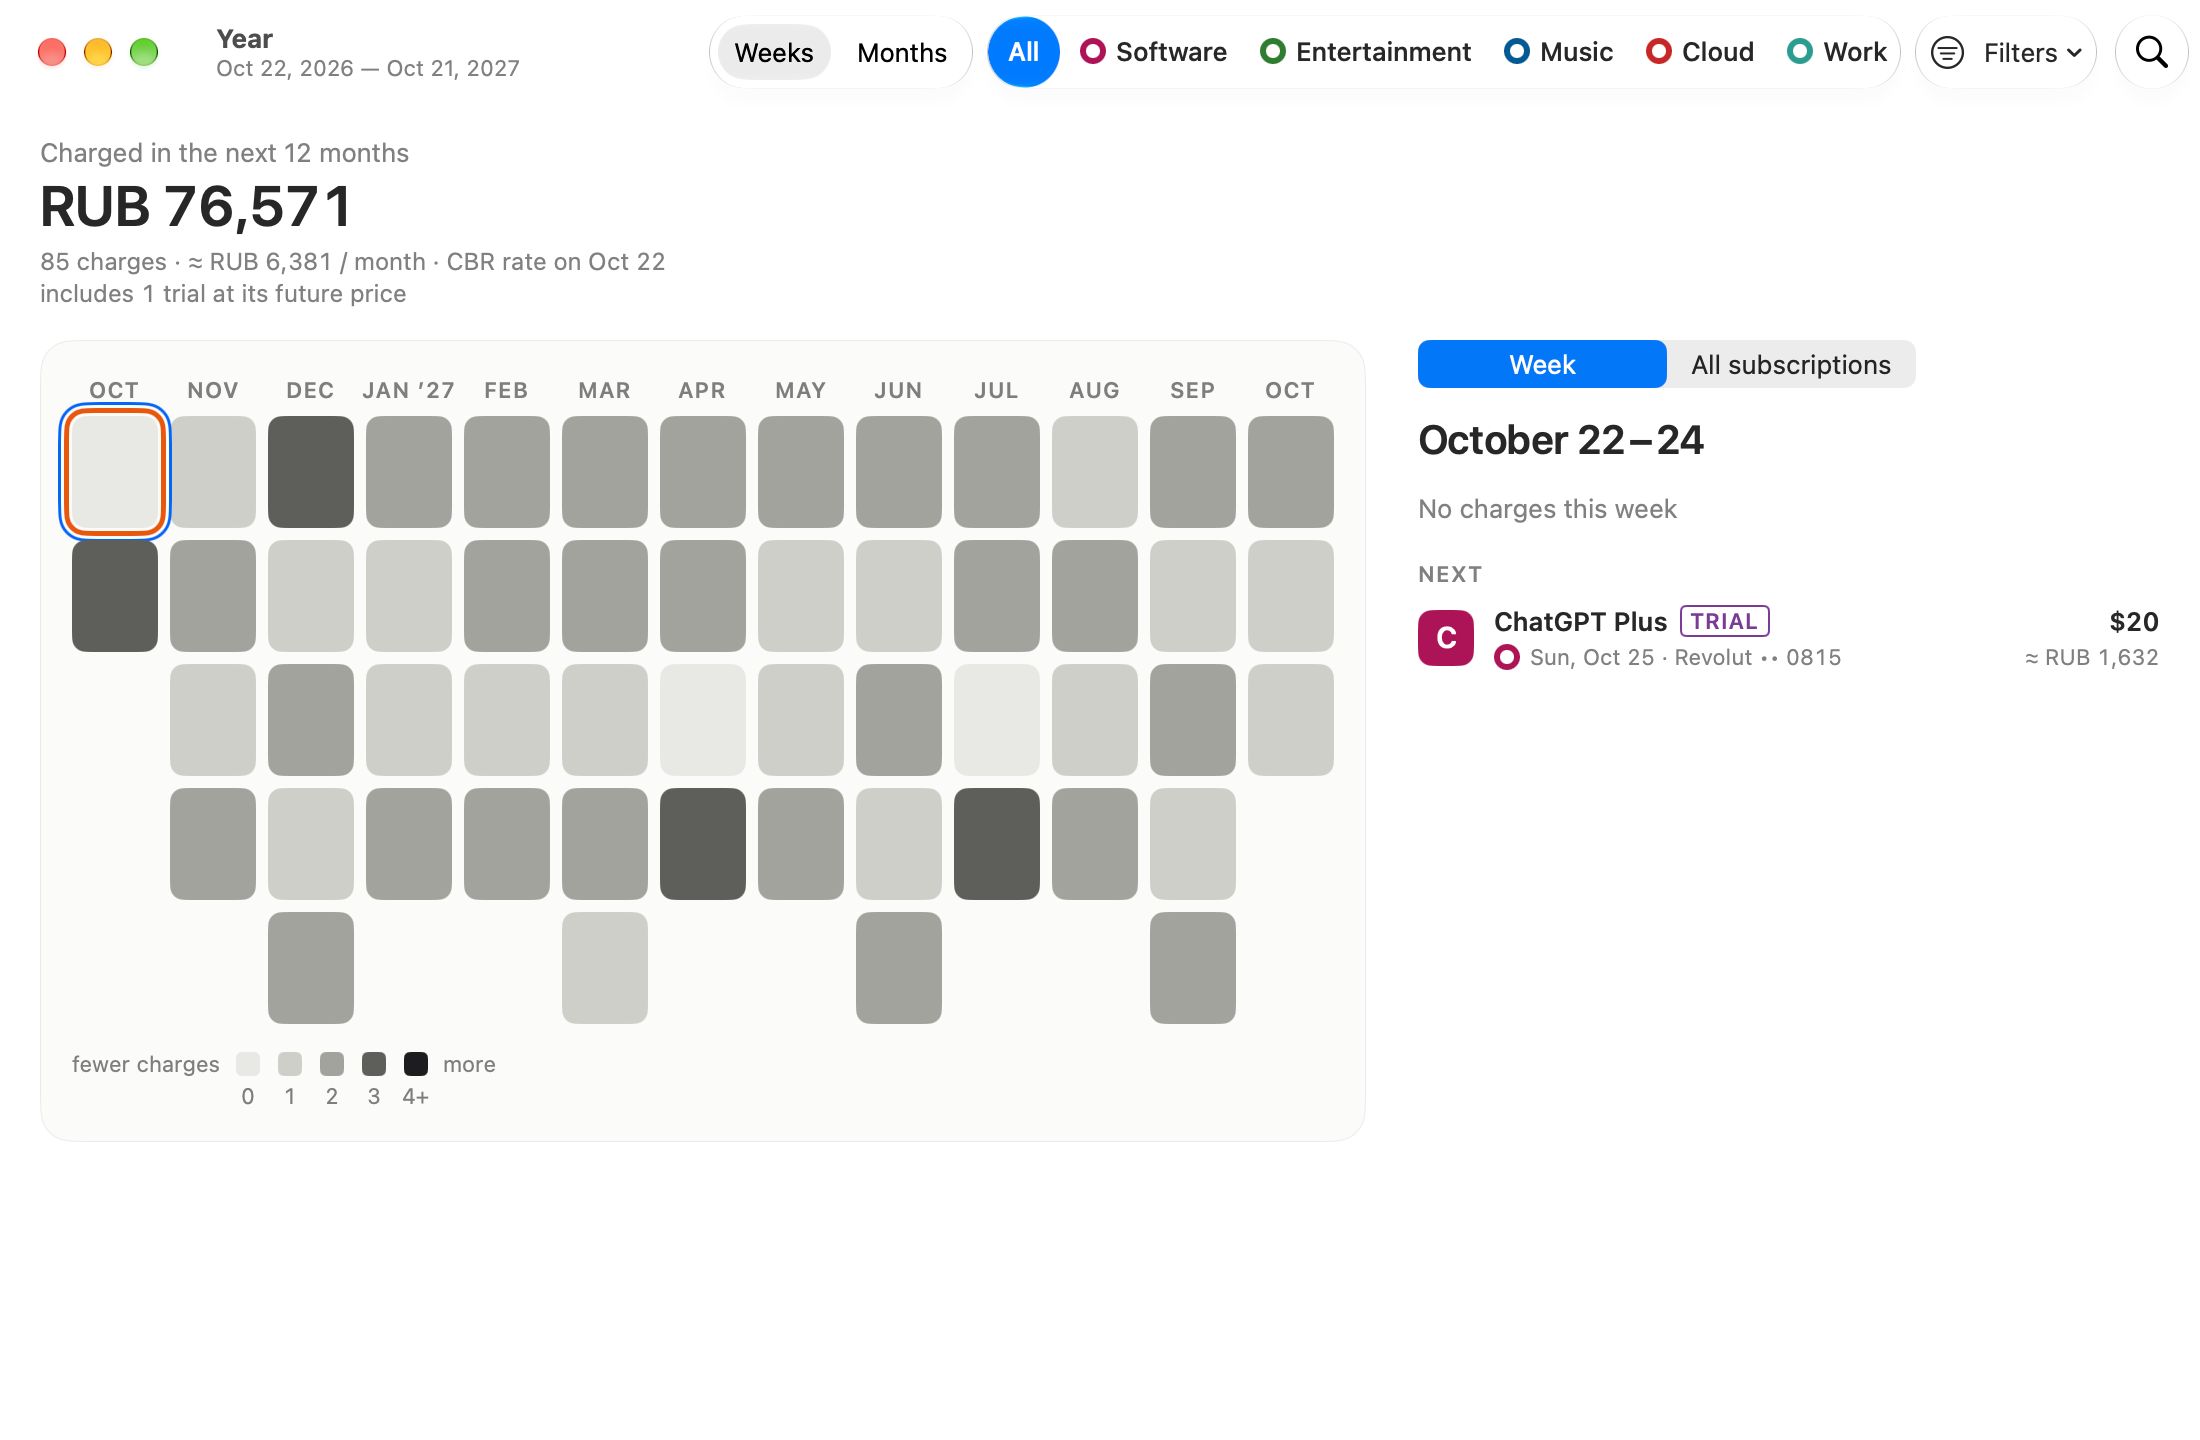
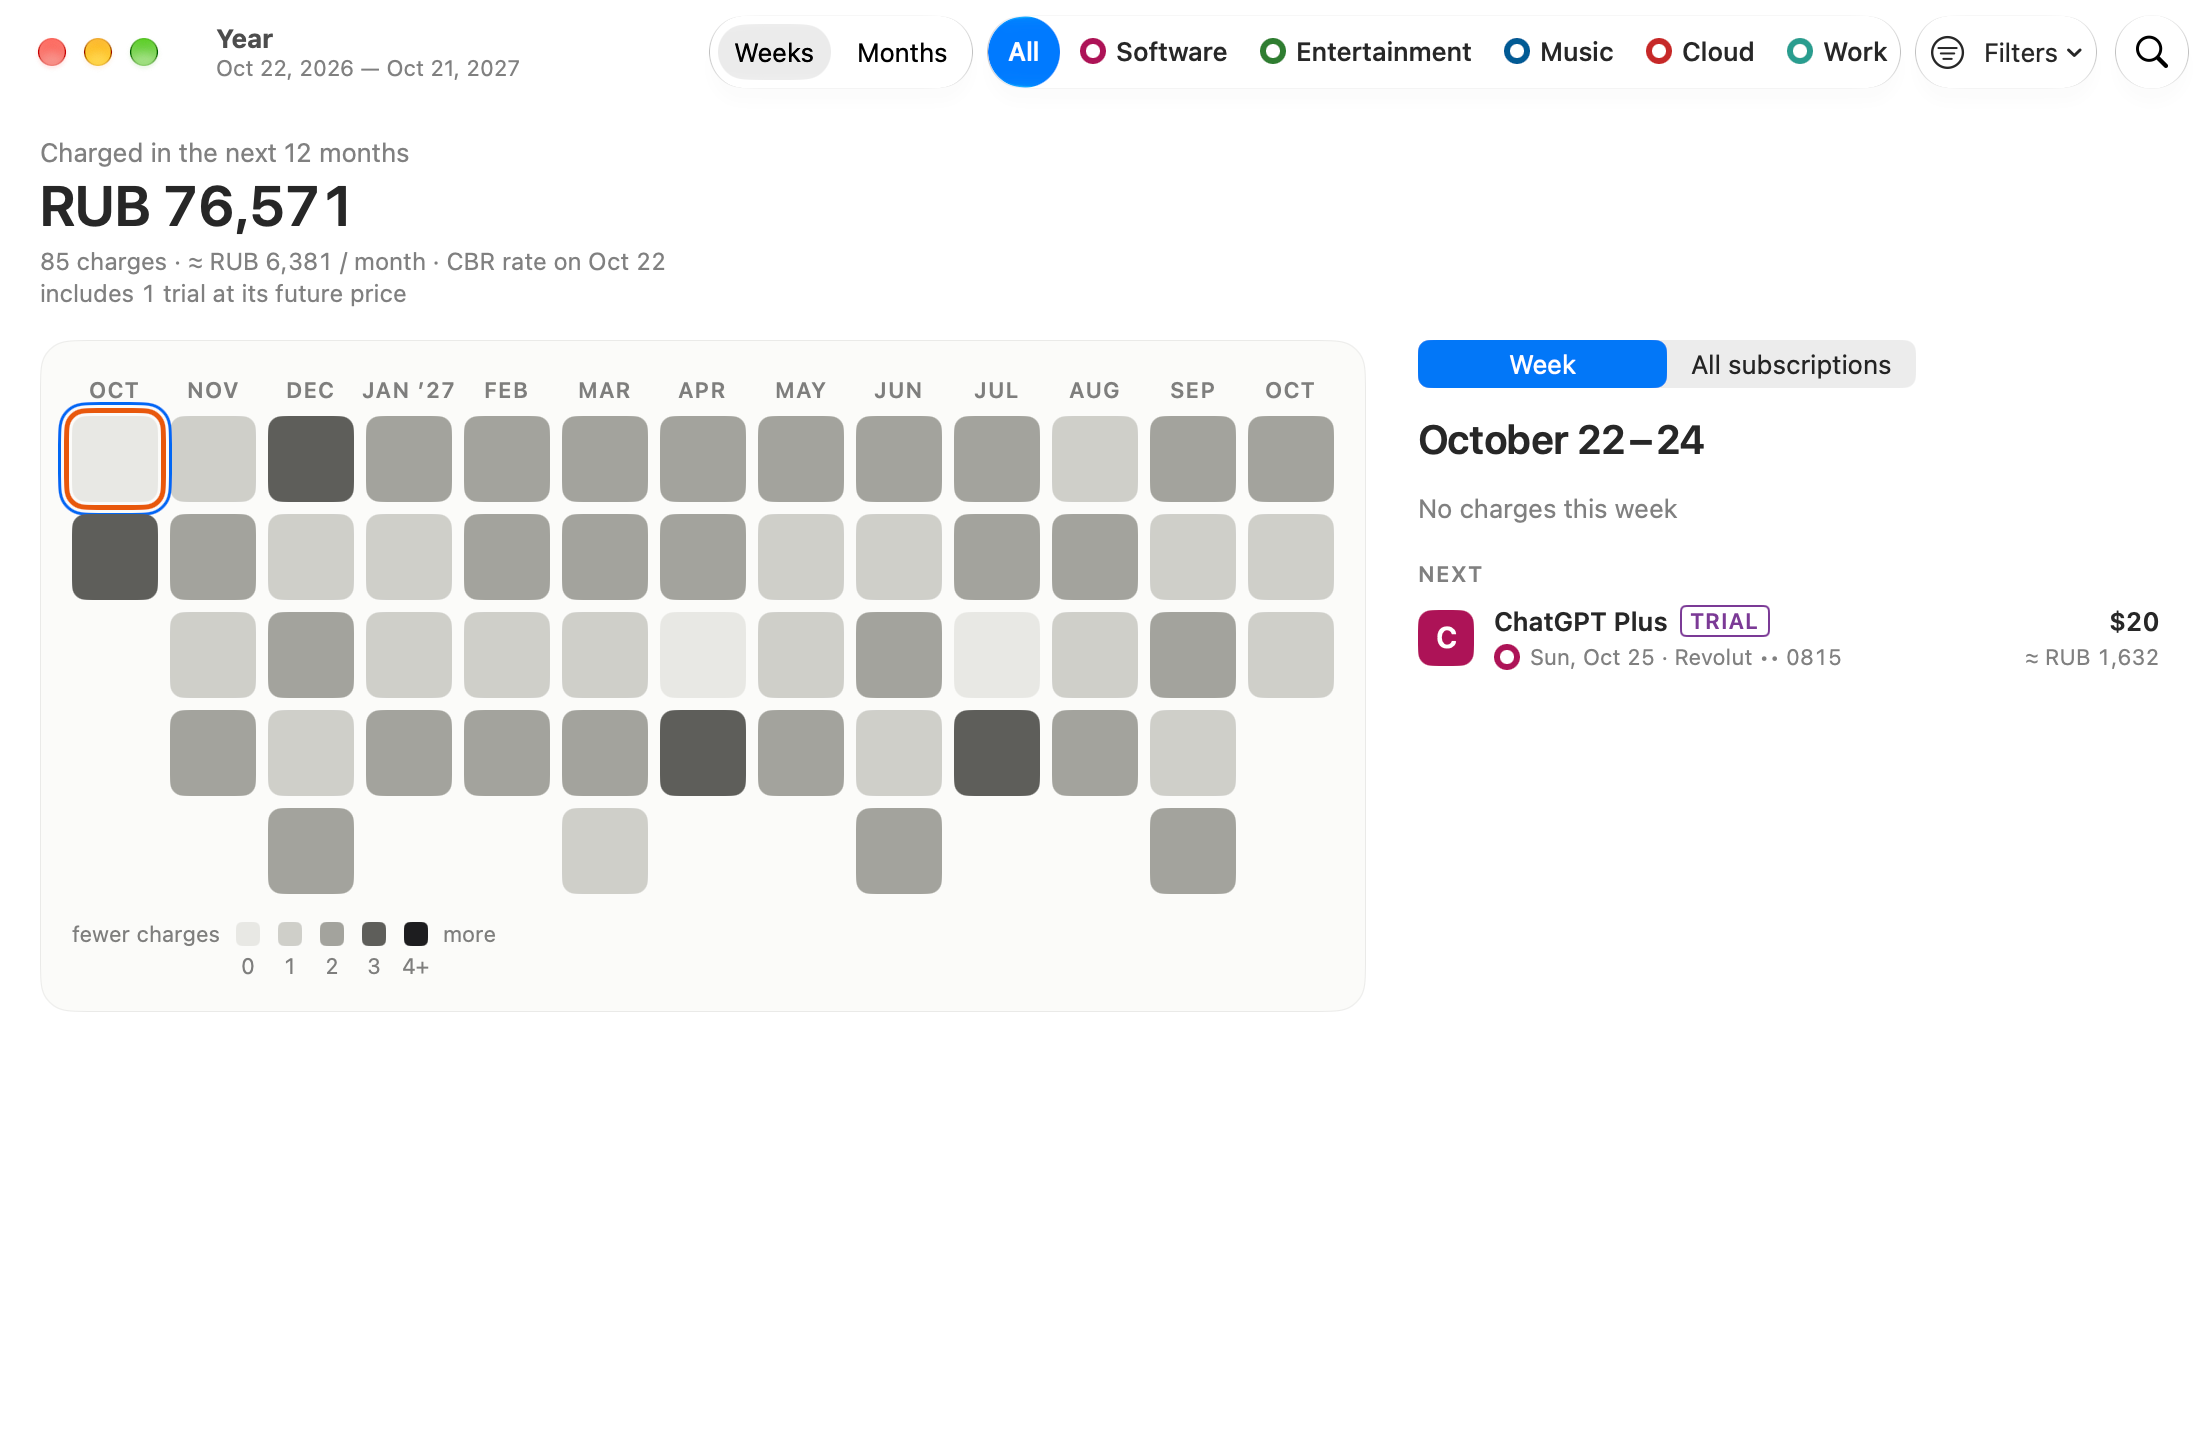
fix(app): week cells stay square
The year grid is a commit calendar of square cells: the side follows
both the width and the height (36-56 pt) and applies to both. The
screenshots are refreshed with it.

Claude-Session: https://claude.ai/code/session_011RGsuiQcddXupwpie26Fn8

Changed region(s): [[0.0309, 0.4062, 0.6182, 0.75], [0.0309, 0.3438, 0.6182, 0.375]]

diff --git a/App/Year/YearGrid.swift b/App/Year/YearGrid.swift
@@ -53,15 +53,13 @@ struct YearGrid: View {
     /// The height of a month label over its column; the gap follows it.
     static let labelHeight: CGFloat = 14
 
-    /// A week cell for the room: as wide as the columns allow and the rows still fit (36–56 pt), and, when the
-    /// room has a height, taller than wide up to 56 pt so the grid takes the height a wide pane leaves.
+    /// A week cell for the room: a square as large as both the columns and the rows allow, 36–56 pt.
     static func cell(width: CGFloat, height: CGFloat = .infinity, columns: Int, rows: Int) -> CGSize {
         guard columns > 0 else { return CGSize(width: 36, height: 36) }
         let widthFit = (width - gap * CGFloat(columns - 1)) / CGFloat(columns)
         let heightFit = height.isFinite && rows > 0 ? (height - labelHeight - gap * CGFloat(rows)) / CGFloat(rows) : .infinity
         let side = min(56, max(36, min(widthFit, heightFit).rounded(.down)))
-        guard heightFit.isFinite else { return CGSize(width: side, height: side) }
-        return CGSize(width: side, height: min(56, max(side, heightFit.rounded(.down))))
+        return CGSize(width: side, height: side)
     }
 
     /// The grid's own width for its cells, so the card and the legend under it hug the grid.
